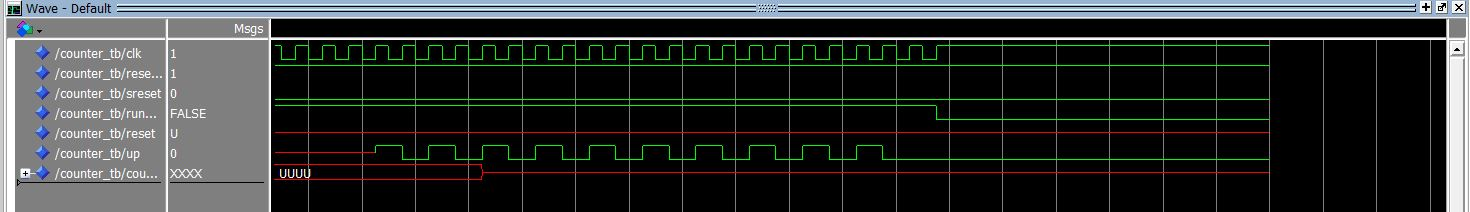
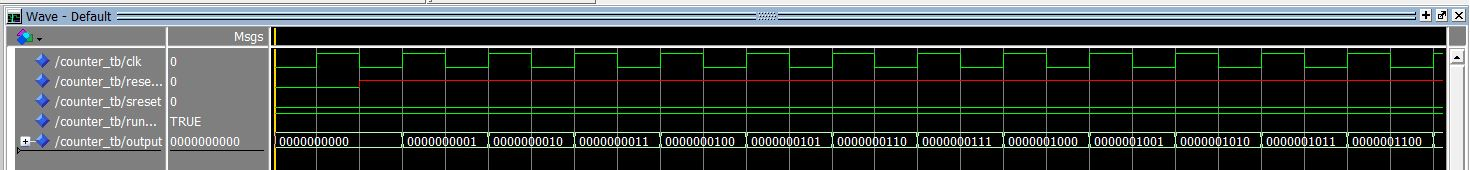
sync

diff --git a/VHDL-LEARN/README.md b/VHDL-LEARN/README.md
@@ -223,33 +223,37 @@ Ce fichier comporte les pins suivants :
 
 ```vhdl
 library ieee;
-	use ieee.std_logic_1164.all;
-	use ieee.numeric_std.all;
+use ieee.std_logic_1164.all;
+use ieee.numeric_std.all;
 
 entity counter is
-	port (
-	clk 		: in std_logic;
-	input 		: in std_logic;
-	output 		: out std_logic_vector(3 downto 0)
-	);
+  port (
+    reset_n : in  std_logic;
+    clk     : in  std_logic;
+    output      : out std_logic_vector(9 downto 0)); 
 end counter;
+
+
 architecture bhv of counter is
- signal s_output : unsigned(3 downto 0);
- begin
- process (clk)
- 	begin
- 		if rising_edge(clk) then
-	 		if (input = '1') then
-	 			if s_output >= "1000" then
-	 				s_output <= "0000";
-	 			else
-	 				s_output <= s_output + 1;
-	 			end if;
-	 		end if;
- 		end if;
- 		output <= std_logic_vector(s_output);
- 	end process;
- end;
+  signal value : unsigned(9 downto 0);
+begin
+
+  process(clk)
+  begin
+    if reset_n = '0' then
+      value <= (others => '0');
+    elsif rising_edge(clk) then
+      value <= value + 1;
+      if value = 1000 then
+        value <= (others => '0');
+      end if;
+      
+    end if;
+  end process;
+
+  output <= std_logic_vector(value);
+  
+end bhv;
 ```
 
 ##### 2.3.2  TestBench `counter_tb.vhd`:
@@ -259,29 +263,30 @@ Le test bench est généré à partir de la commande : `vhdl_tb counter.vhd`
 J'ai ajouté le stimuli suivant :
 
 ```vhdl
-     input <= '1';
-     wait_cycles(1);
-     input <= '0';
-     wait_cycles(1);
-     input <= '1';
-     wait_cycles(1);
-     input <= '0';
-     wait_cycles(1);
-     output <= "0111";
-     wait_cycles(1);
-     input <= '1';
-     wait_cycles(1);
-     input <= '0';
-     wait_cycles(100);
+    reset_n <= '0';--inactif
+    
+    for i in 0 to 100 loop
+      wait until rising_edge(clk);
+    end loop;
+
+    reset_n <= '1';--actif
+    report "now active!";
+    
+    for i in 0 to 1010 loop
+      wait until rising_edge(clk);
+    end loop;
+    running <= false;
+    wait;
+   end process;
 ```
 
 
 
-##### 2.3.3 ModelSim `coounter_tb.vhd`:
+##### 2.3.3 ModelSim `counter_tb.vhd`:
 
 ![](3-COUNTER/IMG.JPG)
 
-Nous pouvons observer que le code ne fonctionne pas. En effet, le input ne change jamais de valeur.
+Nous avons bien `reset_n` qui démarre le processus de comptage.
 
 -------------------------
 
